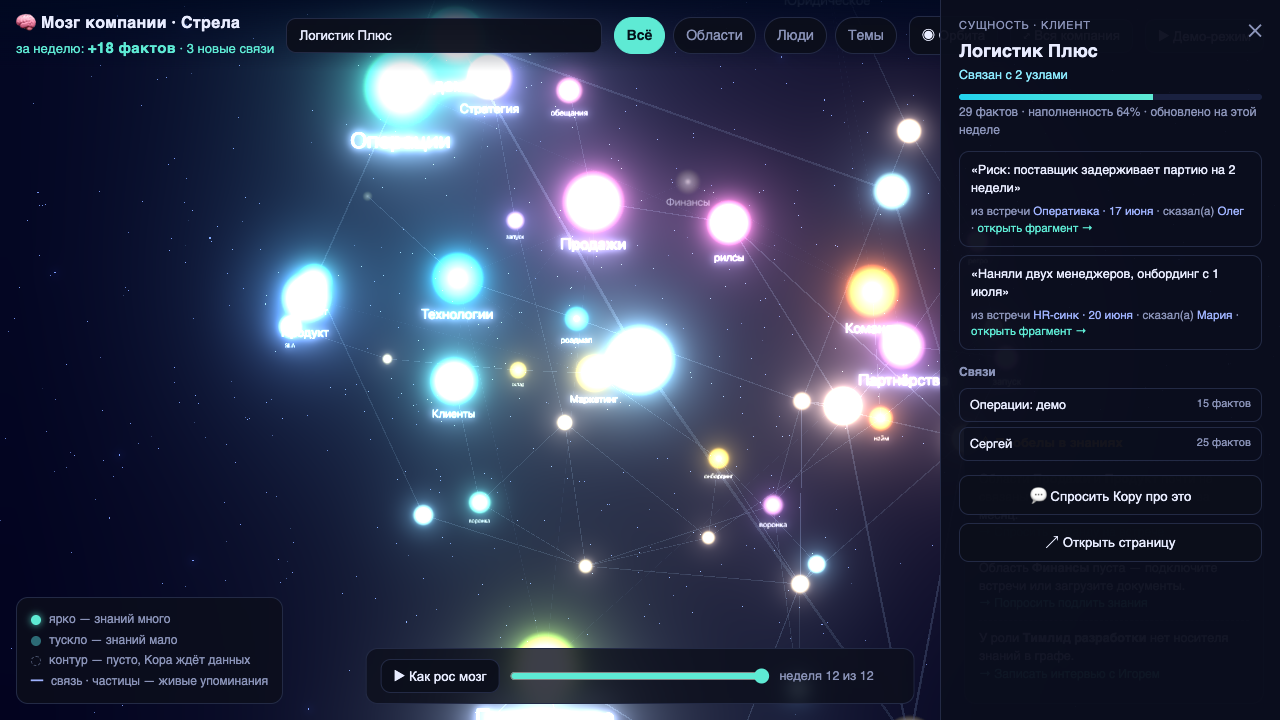
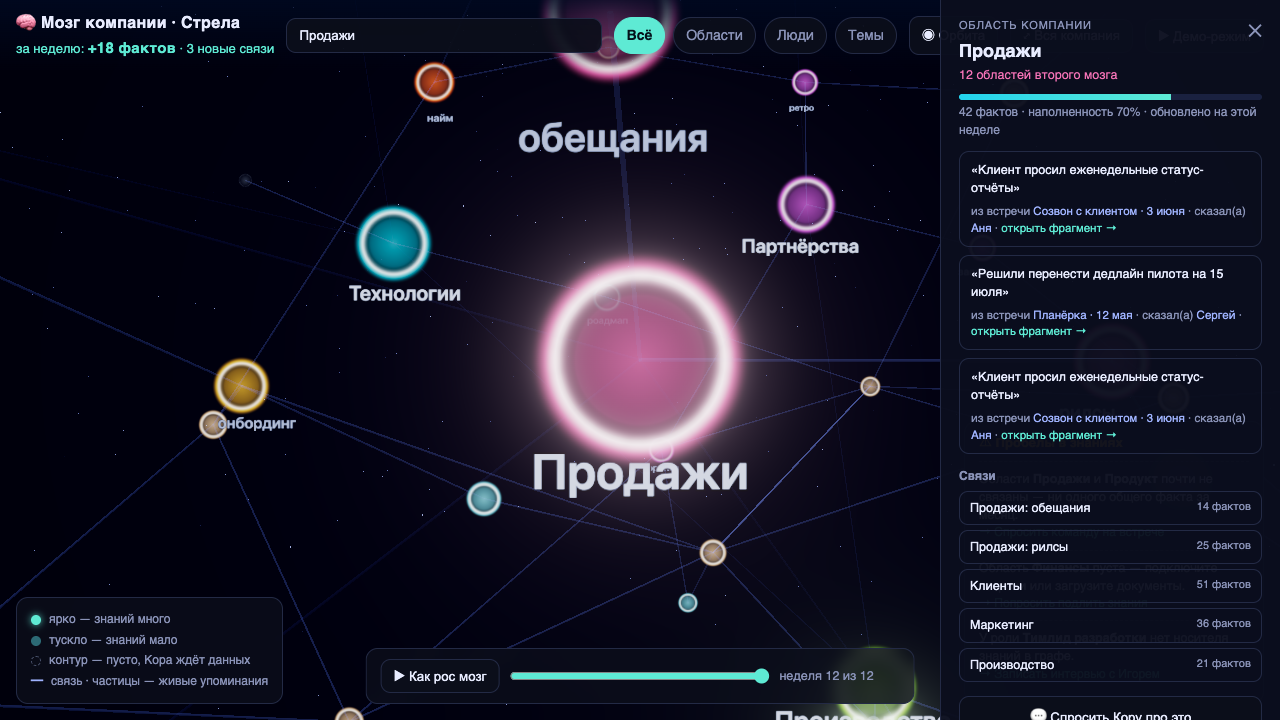
docs(plans): Карта мозга v2 — эталон по фидбеку владельца (ободок, резкость, камера)
Прототип: тёмный диск + светящийся ободок вместо сплошной заливки; рендер
native-DPR + OutputPass + ACESFilmic (резкость и цвет); подписи ниже порога
свечения + обводка; OrbitControls c мгновенной отдачей камеры пользователю;
звёзды в 2 слоя; композиция плотнее. ТЗ синхронизировано: Б15, R23–R24,
грабли №3 (bloom 256x256) и №4 (composer без OutputPass), новые дефолты
крутилок brain.fx.* и сниппеты-каноны v2.

diff --git a/plans/analysis/2026-07-05-brain-viz-wow/prototype/index.html b/plans/analysis/2026-07-05-brain-viz-wow/prototype/index.html
@@ -156,6 +156,7 @@
 <script type="module">
 import * as THREE from 'three';
 import { UnrealBloomPass } from 'three/examples/jsm/postprocessing/UnrealBloomPass.js';
+import { OutputPass } from 'three/examples/jsm/postprocessing/OutputPass.js';
 const ForceGraph3D = (await import('https://esm.sh/3d-force-graph@1.80.0?external=three')).default;
 const SpriteText = (await import('https://esm.sh/three-spritetext@1.10.0?external=three')).default;
 
@@ -233,17 +234,36 @@ for(let i=0;i<AREAS.length;i++){
 nodes.forEach(n=>{ if(n.week===undefined) n.week=1; });
 links.forEach(l=>{ l.week = Math.max(byId[l.source]?.week||1, byId[l.target]?.week||1); });
 
-const glowCache = new Map();
-function glowTexture(color, dim){
-  const key=color+(dim?'d':'');
-  if(glowCache.has(key)) return glowCache.get(key);
-  const c=document.createElement('canvas'); c.width=c.height=128;
+const texCache = new Map();
+function mixColor(a,b,t){ return '#'+new THREE.Color(a).lerp(new THREE.Color(b),t).getHexString(); }
+function nodeTexture(color, ghost){
+  const key=color+(ghost?'g':'');
+  if(texCache.has(key)) return texCache.get(key);
+  const c=document.createElement('canvas'); c.width=c.height=256;
   const x=c.getContext('2d');
-  const g=x.createRadialGradient(64,64,0,64,64,64);
-  const core = dim? color+'66' : color;
-  g.addColorStop(0,'#ffffff'); g.addColorStop(.25,core); g.addColorStop(.6,color+(dim?'22':'88')); g.addColorStop(1,'transparent');
-  x.fillStyle=g; x.fillRect(0,0,128,128);
-  const tex=new THREE.CanvasTexture(c); glowCache.set(key,tex); return tex;
+  if(ghost){
+    x.strokeStyle='rgba(148,163,184,0.55)'; x.setLineDash([12,9]); x.lineWidth=4;
+    x.beginPath(); x.arc(128,128,84,0,Math.PI*2); x.stroke();
+    x.setLineDash([]);
+    const g=x.createRadialGradient(128,128,0,128,128,84);
+    g.addColorStop(0,'rgba(148,163,184,0.12)'); g.addColorStop(1,'rgba(148,163,184,0)');
+    x.fillStyle=g; x.beginPath(); x.arc(128,128,84,0,Math.PI*2); x.fill();
+  } else {
+    const disk=x.createRadialGradient(128,128,0,128,128,82);
+    disk.addColorStop(0, mixColor('#0a0f1e',color,.42));
+    disk.addColorStop(.72, mixColor('#0a0f1e',color,.2));
+    disk.addColorStop(1, mixColor('#0a0f1e',color,.1));
+    x.fillStyle=disk; x.beginPath(); x.arc(128,128,82,0,Math.PI*2); x.fill();
+    const rim=x.createRadialGradient(128,128,66,128,128,116);
+    rim.addColorStop(0,'rgba(0,0,0,0)');
+    rim.addColorStop(.42, mixColor(color,'#ffffff',.68));
+    rim.addColorStop(.62, color+'88');
+    rim.addColorStop(1,'rgba(0,0,0,0)');
+    x.fillStyle=rim; x.beginPath(); x.arc(128,128,116,0,Math.PI*2); x.fill();
+  }
+  const tex=new THREE.CanvasTexture(c);
+  tex.colorSpace=THREE.SRGBColorSpace;
+  texCache.set(key,tex); return tex;
 }
 
 const highlightNodes=new Set(), highlightLinks=new Set();
@@ -267,35 +287,38 @@ function currentData(){
   return {nodes:vn, links:vl};
 }
 
-const Graph = new ForceGraph3D(document.getElementById('graph'))
+const Graph = new ForceGraph3D(document.getElementById('graph'),
+    { controlType:'orbit', rendererConfig:{ antialias:true, powerPreference:'high-performance' } })
   .backgroundColor('#000003')
   .showNavInfo(false)
   .nodeLabel(null)
   .nodeThreeObject(n=>{
     const group=new THREE.Group();
     const dim = hoverNode && !highlightNodes.has(n);
-    const bright = n.ghost? .18 : (.35+.65*n.maturity);
-    const mat=new THREE.SpriteMaterial({ map:glowTexture(n.color, n.ghost||dim),
-      blending:THREE.AdditiveBlending, depthWrite:false, transparent:true,
-      opacity: dim? .18 : bright });
+    const mat=new THREE.SpriteMaterial({ map:nodeTexture(n.color, n.ghost),
+      depthWrite:false, transparent:true,
+      opacity: dim? .12 : (n.ghost? .85 : .68+.32*n.maturity) });
     const s=new THREE.Sprite(mat);
-    const size=(n.kind==='area'?24:n.kind==='theme'?12:8)*(0.7+0.6*n.maturity);
+    const size=(n.kind==='area'?26:n.kind==='theme'?13:9)*(0.7+0.6*n.maturity);
     s.scale.setScalar(size);
     group.add(s);
     if(n.kind==='area'||n.kind==='theme'||highlightNodes.has(n)){
       const label=new SpriteText(n.kind==='theme'?n.short:n.label);
       label.material.depthWrite=false;
-      label.color = dim? '#3a4160' : (n.ghost? '#5b6480' : '#dfe6ff');
+      label.color = dim? '#333a55' : (n.ghost? '#66708c' : (n.kind==='area'? '#bcc8e6' : '#95a4ca'));
+      label.strokeColor='#060913';
+      label.strokeWidth=0.8;
+      label.fontWeight='600';
       label.textHeight=n.kind==='area'?6.5:3.4;
       label.position.y=-(size*0.55+3);
       group.add(label);
     }
     return group;
   })
-  .linkColor(l=>highlightLinks.has(l)?'#5eead4':(l.kind==='aggregate'?'rgba(90,105,180,0.10)':'rgba(120,140,220,0.25)'))
-  .linkWidth(l=>highlightLinks.has(l)?1.6:(l.kind==='aggregate'?0.2:0.4))
+  .linkColor(l=>highlightLinks.has(l)?'#5eead4':(l.kind==='aggregate'?'rgba(95,112,195,0.15)':'rgba(130,150,235,0.34)'))
+  .linkWidth(l=>highlightLinks.has(l)?1.05:(l.kind==='aggregate'?0.25:0.5))
   .linkDirectionalParticles(l=>highlightLinks.has(l)?3:0)
-  .linkDirectionalParticleWidth(1.8)
+  .linkDirectionalParticleWidth(1.35)
   .linkDirectionalParticleSpeed(0.008)
   .onNodeHover((n,prev)=>{
     document.body.style.cursor=n?'pointer':'default';
@@ -318,29 +341,41 @@ const Graph = new ForceGraph3D(document.getElementById('graph'))
   .graphData(currentData());
 
 Graph.d3Force('charge').strength(-70);
-Graph.d3Force('link').distance(l=>l.kind==='aggregate'?150:l.kind==='in-area'?34:60);
+Graph.d3Force('link').distance(l=>l.kind==='aggregate'?110:l.kind==='in-area'?30:52);
 
-const bloom=new UnrealBloomPass();
-bloom.strength=2.2; bloom.radius=0.85; bloom.threshold=0.08;
+const DPR=Math.min(window.devicePixelRatio||1,2);
+const renderer=Graph.renderer();
+renderer.setPixelRatio(DPR);
+renderer.toneMapping=THREE.ACESFilmicToneMapping;
+renderer.toneMappingExposure=1.25;
+const bloom=new UnrealBloomPass(new THREE.Vector2(innerWidth*DPR,innerHeight*DPR), 1.45, 0.62, 0.62);
 Graph.postProcessingComposer().addPass(bloom);
+Graph.postProcessingComposer().addPass(new OutputPass());
+Graph.postProcessingComposer().setPixelRatio(DPR);
+Graph.scene().fog=new THREE.FogExp2(0x000308, 0.00035);
+Graph.controls().enableDamping=true;
+Graph.controls().dampingFactor=0.08;
+(function tickControls(){ Graph.controls().update?.(); requestAnimationFrame(tickControls); })();
 
-{
-  const starGeo=new THREE.BufferGeometry();
-  const N=3500, pos=new Float32Array(N*3), col=new Float32Array(N*3);
-  const inC=new THREE.Color('#7f9dff'), outC=new THREE.Color('#1b2440');
-  for(let i=0;i<N;i++){
-    const r=600+Math.pow(rnd(),1.6)*2600;
+function starLayer(count,size,opacity,rMin,rMax){
+  const geo=new THREE.BufferGeometry();
+  const pos=new Float32Array(count*3), col=new Float32Array(count*3);
+  const inC=new THREE.Color('#93a8ff'), outC=new THREE.Color('#182137');
+  for(let i=0;i<count;i++){
+    const r=rMin+Math.pow(rnd(),1.6)*(rMax-rMin);
     const th=rnd()*Math.PI*2, ph=Math.acos(2*rnd()-1);
     pos[i*3]=r*Math.sin(ph)*Math.cos(th); pos[i*3+1]=r*Math.cos(ph)*0.55; pos[i*3+2]=r*Math.sin(ph)*Math.sin(th);
-    const c=inC.clone().lerp(outC, Math.min(1,(r-600)/2600));
+    const c=inC.clone().lerp(outC, Math.min(1,(r-rMin)/(rMax-rMin)));
     col[i*3]=c.r; col[i*3+1]=c.g; col[i*3+2]=c.b;
   }
-  starGeo.setAttribute('position', new THREE.BufferAttribute(pos,3));
-  starGeo.setAttribute('color', new THREE.BufferAttribute(col,3));
-  const stars=new THREE.Points(starGeo,new THREE.PointsMaterial({size:2.2,vertexColors:true,
-    transparent:true,opacity:.8,depthWrite:false,blending:THREE.AdditiveBlending}));
+  geo.setAttribute('position', new THREE.BufferAttribute(pos,3));
+  geo.setAttribute('color', new THREE.BufferAttribute(col,3));
+  const stars=new THREE.Points(geo,new THREE.PointsMaterial({size,vertexColors:true,sizeAttenuation:true,
+    transparent:true,opacity,depthWrite:false,blending:THREE.AdditiveBlending}));
   Graph.scene().add(stars);
 }
+starLayer(2600,1.3,.5,700,3200);
+starLayer(600,2.1,.75,600,2400);
 
 function flyTo(n,ms=1600){
   const d=90, r=1+d/Math.hypot(n.x||1,n.y||1,n.z||1);
@@ -472,11 +507,18 @@ function toast(msg){
   setTimeout(()=>toastEl.style.display='none',2600);
 }
 
-setTimeout(()=>{
-  const clients=byId['c0'];
-  if(clients) flyTo(clients,2600);
-  setTimeout(()=>Graph.zoomToFit(1400,30,n=>!n.ghost),3400);
-},1400);
+function releaseCamera(){
+  introTimers.forEach(clearTimeout); introTimers=[];
+  if(orbitTimer){ clearInterval(orbitTimer); orbitTimer=null; document.getElementById('orbit').classList.remove('on'); }
+}
+Graph.controls().addEventListener('start', releaseCamera);
+
+let introTimers=[];
+introTimers.push(setTimeout(()=>{
+  const c0=byId['c0'];
+  if(c0) flyTo(c0,2600);
+  introTimers.push(setTimeout(()=>Graph.zoomToFit(1400,30,n=>!n.ghost),3400));
+},1400));
 </script>
 </body>
 </html>
